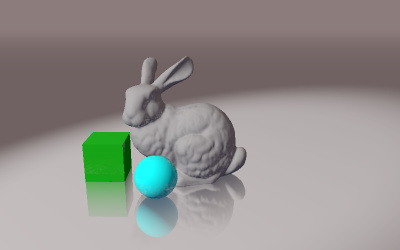
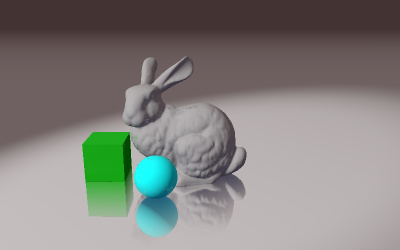
Solve "npm run make-screenshot webgl_postprocessing_ssr" high probability hang problem.

diff --git a/examples/jsm/shaders/SSRShader.js b/examples/jsm/shaders/SSRShader.js
@@ -182,45 +182,48 @@ var SSRShader = {
 					float viewReflectRayZ=viewPosition.z+s*(d1viewPosition.z-viewPosition.z);
 				#endif
 
-				if(viewReflectRayZ>vZ) continue;
+				// if(viewReflectRayZ>vZ) continue; // will cause "npm run make-screenshot webgl_postprocessing_ssr" high probability hang.
+				// https://github.com/mrdoob/three.js/pull/21539#issuecomment-821061164
+				if(viewReflectRayZ<=vZ){
 
-				bool hit;
-				#ifdef INFINITE_THICK
-					hit=true;
-				#else
-					float away=pointToLineDistance(vP,viewPosition,d1viewPosition);
+					bool hit;
+					#ifdef INFINITE_THICK
+						hit=true;
+					#else
+						float away=pointToLineDistance(vP,viewPosition,d1viewPosition);
 
-					float minThickness;
-					vec2 xyNeighbor=xy;
-					xyNeighbor.x+=1.;
-					vec2 uvNeighbor=xyNeighbor/resolution;
-					vec3 vPNeighbor=getViewPosition(uvNeighbor,d,cW);
-					minThickness=vPNeighbor.x-vP.x;
-					minThickness*=3.;
-					float tk=max(minThickness,thickness);
+						float minThickness;
+						vec2 xyNeighbor=xy;
+						xyNeighbor.x+=1.;
+						vec2 uvNeighbor=xyNeighbor/resolution;
+						vec3 vPNeighbor=getViewPosition(uvNeighbor,d,cW);
+						minThickness=vPNeighbor.x-vP.x;
+						minThickness*=3.;
+						float tk=max(minThickness,thickness);
 
-					hit=away<=tk;
-				#endif
-
-				if(hit){
-					vec3 vN=getViewNormal( uv );
-					if(dot(viewReflectDir,vN)>=0.) continue;
-					float distance=pointPlaneDistance(vP,viewPosition,viewNormal);
-					if(distance>maxDistance) break;
-					float op=opacity;
-					#ifdef DISTANCE_ATTENUATION
-						float ratio=1.-(distance/maxDistance);
-						float attenuation=ratio*ratio;
-						op=opacity*attenuation;
+						hit=away<=tk;
 					#endif
-					#ifdef FRESNEL
-						float fresnelCoe=(dot(viewIncidentDir,viewReflectDir)+1.)/2.;
-						op*=fresnelCoe;
-					#endif
-					vec4 reflectColor=texture2D(tDiffuse,uv);
-					gl_FragColor.xyz=reflectColor.xyz;
-					gl_FragColor.a=op;
-					break;
+
+					if(hit){
+						vec3 vN=getViewNormal( uv );
+						if(dot(viewReflectDir,vN)>=0.) continue;
+						float distance=pointPlaneDistance(vP,viewPosition,viewNormal);
+						if(distance>maxDistance) break;
+						float op=opacity;
+						#ifdef DISTANCE_ATTENUATION
+							float ratio=1.-(distance/maxDistance);
+							float attenuation=ratio*ratio;
+							op=opacity*attenuation;
+						#endif
+						#ifdef FRESNEL
+							float fresnelCoe=(dot(viewIncidentDir,viewReflectDir)+1.)/2.;
+							op*=fresnelCoe;
+						#endif
+						vec4 reflectColor=texture2D(tDiffuse,uv);
+						gl_FragColor.xyz=reflectColor.xyz;
+						gl_FragColor.a=op;
+						break;
+					}
 				}
 			}
 		}
